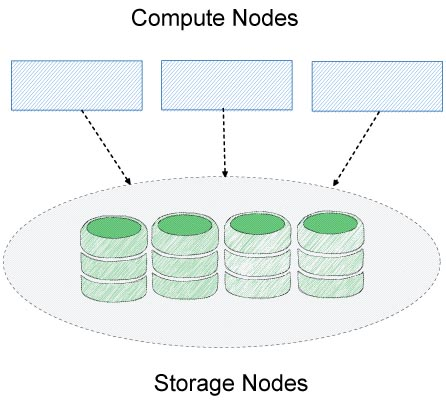
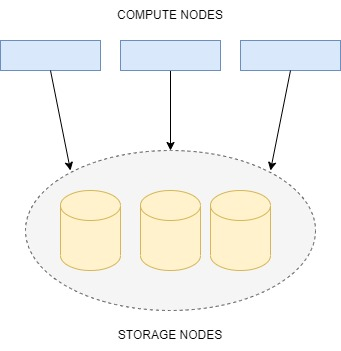
Updated the introduction and architecture overview

diff --git a/content/labs/serverless-postgresql/docs/introduction.md b/content/labs/serverless-postgresql/docs/introduction.md
@@ -6,46 +6,27 @@ weight: 1
 
 Percona provides binary builds for Serverless PostgreSQL based on [the Neon: Serverless Postgres](https://github.com/neondatabase/neon).
 
-This solution provides a serverless experience for PostgreSQL by dividing the compute nodes and storage nodes, allowing the storage to be scaled as your data grows and making the process transparent for end-users.
+This solution provides a serverless experience for PostgreSQL by separating the compute nodes and storage nodes. This allows scaling your storage as your data grows and makes the process transparent for end users.
 
-At this point the binaries are **EXPERIMENTAL and ONLY for TESTING** purposes. Percona does not provide official support for the build at this moment.
+At this point, the builds are **EXPERIMENTAL and for TESTING PURPOSES ONLY**. Percona does not provide official support for the builds at the moment.
 
-For the feedback and questions, please use our [Forum](https://forums.percona.com/c/percona-labs/serverless-postgresql/78).
+Share your feedback and questions on [Percona Community Forum](https://forums.percona.com/c/percona-labs/serverless-postgresql/78).
 
-## Binary releases location
+## Binary Releases Location
 
-The binaries for releases are hosted on github release page
+Get binary releases on our [GitHub release page](https://github.com/Percona-Lab/neon/releases).
 
-[Releases · Percona-Lab/neon (github.com)](https://github.com/Percona-Lab/neon/releases)
+## Architecture
 
-## Architectural overview
+The build consists of the following main components:
 
-The build provides multiple components necessary to start Serverless PostgreSQL. The primary components are:
+- **Pageserver:** This is a storage server that stores data pages and WAL records.
+- **Compute nodes:** They handle user queries and send requests for data pages to a page server.
+- **Safekeeper(s):** They store WAL records durably before the page server can process them. Several safekeepers comprise a WAL service. To make sure that all WAL records are sent to the pageserver and avoid data loss, we recommend creating at least 3 safekeeper instances.
+- **Storage broker:** It coordinates processing of WAL records between the WAL service and the page server.
 
-1. Storage Broker
-2. Page Server
-3. Safe Keeper
-4. Compute Nodes
+![Percona - Serverless Postgres - WAL records](/images/labs/docs/serverless/introduction/architecture.png)
 
-## The relation between components
+Compute nodes send requests to the page server. The pageserver responds with pages from the repository. WAL records that contain the changes to the data are sent to the WAL service, where the Paxos protocol distributes them between safekeepers thus reducing latency and ensuring data consistency. Safekeepers store the WAL records in memory until the storage broker sends them to the pageserver for further processing and storing in the repository.
 
-### WAL records
-
-Compute nodes write WAL records to the WAL Service, which consists of safekeepers. To provide low-latency operations, safekeepers keep records only in memory. However, there are three of them combined in a consistent group.
-
-For permanent storage, WAL records are shipped later to Pageserver.
-
-![Percona - Serverless Postgres - WAL records](/images/labs/docs/serverless/introduction/image1.png)
-
-### Data pages
-
-The Pageserver listens for GetPage@LSN requests from the Compute Nodes, and responds with pages from the repository. 
-
-![Percona - Serverless Postgres - Data pages](/images/labs/docs/serverless/introduction/image2.png)
-
-### Storage Broker
-
-Storage Broker is a coordination component between WAL Service and Pageserver
-
-![Percona - Serverless Postgres - Storage Broker](/images/labs/docs/serverless/introduction/image3.png)
-
+![Percona - Serverless Postgres - Storage Broker](/images/labs/docs/serverless/introduction/listen-request.png)

diff --git a/content/labs/serverless-postgresql/_index.md b/content/labs/serverless-postgresql/_index.md
@@ -7,21 +7,21 @@ images:
 tags: ['Labs','Serverless', 'PostgreSQL']
 ---
 
-Percona offers builds for Serverless PostgreSQL which are based on [Neon](https://github.com/neondatabase/neon)
+For Serverless PostgreSQL, Percona offers builds which are based on [Neon](https://github.com/neondatabase/neon)
 
-This solution provides a serverless experience for PostgreSQL by dividing the compute nodes and storage nodes, allowing the storage to be scaled as your data grows and making the process transparent for end-users.
+This solution provides a serverless experience for PostgreSQL by separating the compute nodes and storage nodes. This allows scaling your storage as your data grows and makes the process transparent for end users.
 
 ![Serverless PostgreSQL - Compute Nodes](images/labs/compute-nodes.jpg)
 
 ## Branching data
 
-Have you ever wanted the ability to fork your data set and work on it independently, similar to using Git branches? This can now be achieved with ease using Serverless PostgreSQL. Simply fork your data, conduct experiments, and have peace of mind knowing that your primary data set remains unaffected.
+Have you ever needed to fork your data set and work on it independently, similar to using Git branches? Now, you can do this with ease using Serverless PostgreSQL. Simply branch out your data, conduct necessary experiments, and have peace of mind knowing that your primary data set remains unaffected.
 
 ![Serverless PostgreSQL - Branching data](images/labs/main-data-tree.jpg)
 
 ## Interested?
 
-If you would like to talk with us about builds for Serverless PostgreSQL or stay in touch for future update - leave your contact details below.
+If you would like to talk with us about builds for Serverless PostgreSQL or stay in touch for future updates, leave your contact details below.
 
 [Contact form](/labs/contacts)
 
